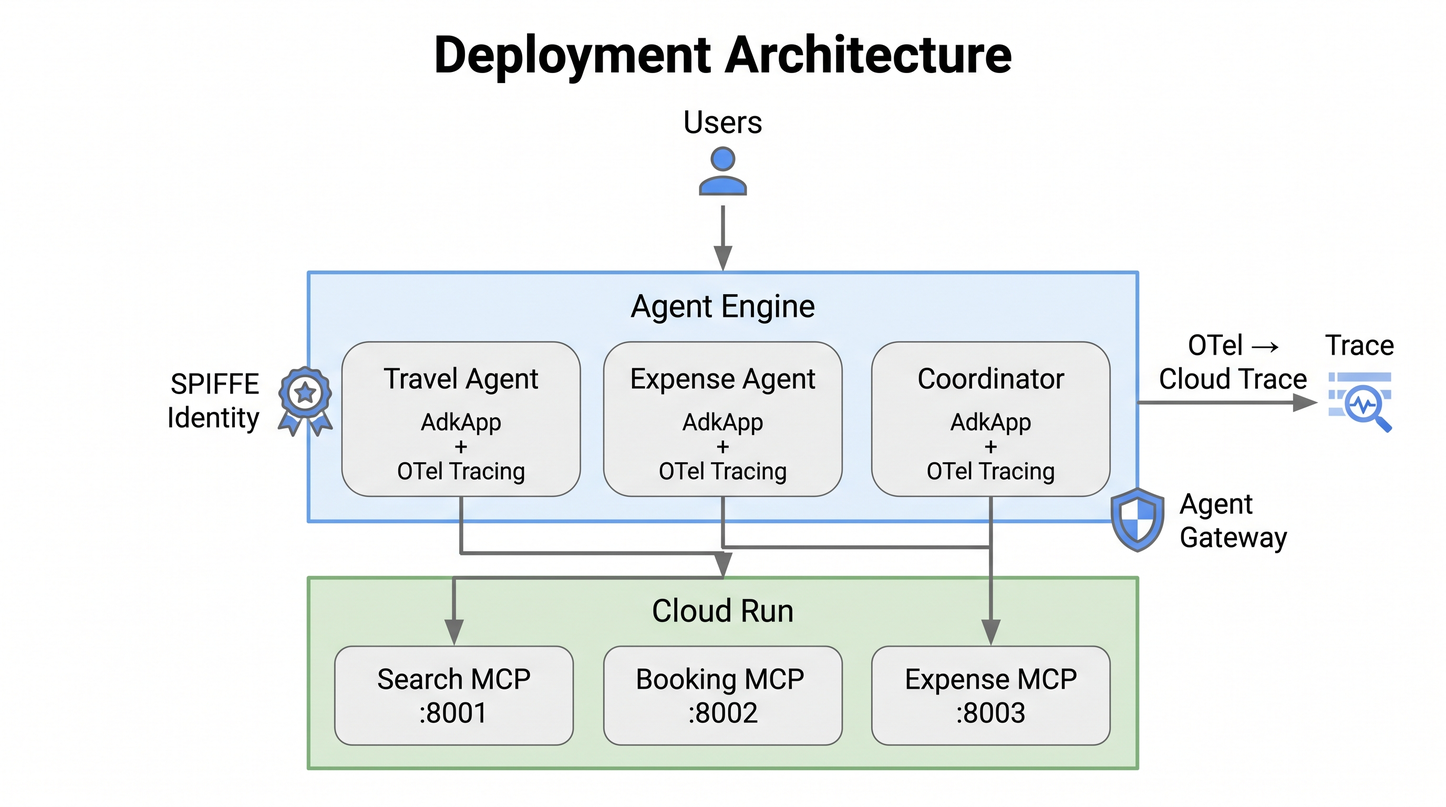
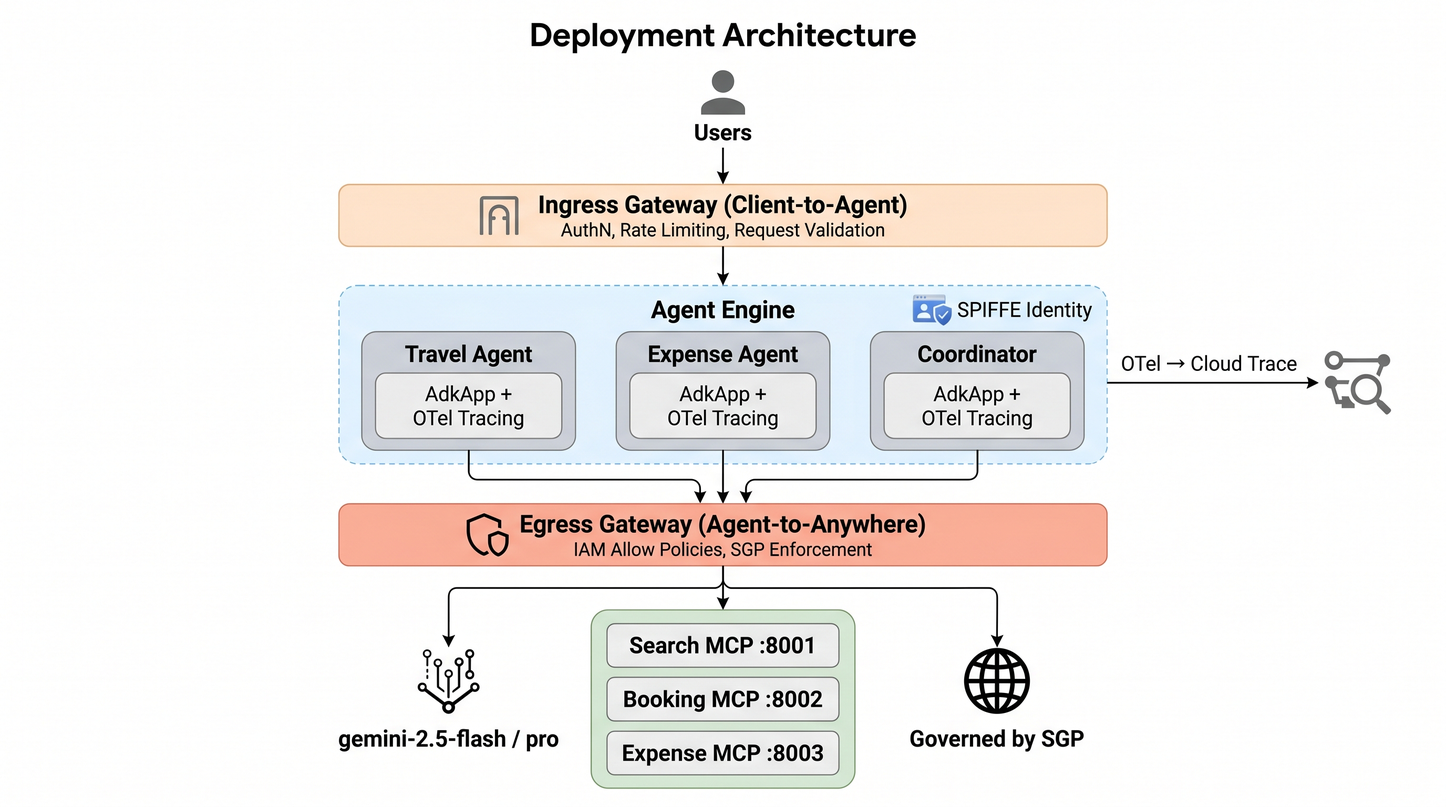
feat: add egress gateway, agent traces, and dual-gateway deployment
- Add Agent-to-Anywhere (egress) gateway to setup_agent_gateway.sh
- Update deploy_agents.py to pass agent_gateway_config with both
  ingress and egress gateway references when deploying agents
- Add AGENT_GATEWAY_EGRESS_PATH to config.py and deploy_all.sh
- Generate real agent traces and capture screenshots (session view,
  trace view, and detail)
- Regenerate Paper Banana diagrams (02, 04) showing dual-gateway
  architecture with SPIFFE identity and SGP enforcement
- Update workshop guide Section 2.1 with full ingress+egress docs
- Update slides with dual-mode gateway table and traces slide
- Update README screenshot table with new traces screenshots

Changed region(s): [[0.0938, 0.0312, 0.9688, 1.0]]

diff --git a/docs/slides.html b/docs/slides.html
@@ -535,28 +535,42 @@ travel_agent = LlmAgent(
   <div class="logo" style="color: rgba(255,255,255,0.4);">Google Cloud</div>
 </div>
 
-<!-- ===== SLIDE 14: AGENT GATEWAY ===== -->
+<!-- ===== SLIDE 14: AGENT GATEWAY (DUAL MODE) ===== -->
 <div class="slide" id="s14">
-  <h2>Agent Gateway</h2>
+  <h2>Agent Gateway &mdash; Dual Mode</h2>
   <div class="columns">
     <div>
-      <h3>Network-Level Governance</h3>
-      <ul>
-        <li>Controls <strong>ingress</strong> (client → agent) and <strong>egress</strong> (agent → tools)</li>
-        <li>Enforces identity verification at the boundary</li>
-        <li>Supports MCP protocol natively</li>
-        <li>Semantic Governance Policies for content-aware routing</li>
-      </ul>
-      <div class="highlight-box" style="margin-top: 20px; font-size: 18px;">
-        <strong>Mode:</strong> CLIENT_TO_AGENT<br>
-        <strong>Protocol:</strong> MCP<br>
-        <strong>Created via:</strong> REST API (networkservices.googleapis.com)
+      <h3>Ingress + Egress Governance</h3>
+      <table style="font-size: 16px; width: 100%; border-collapse: collapse;">
+        <tr style="border-bottom: 1px solid #ddd;"><th style="text-align: left; padding: 8px;">Mode</th><th style="text-align: left; padding: 8px;">Gateway</th><th style="text-align: left; padding: 8px;">Controls</th></tr>
+        <tr style="border-bottom: 1px solid #eee;"><td style="padding: 8px;"><strong>Client-to-Agent</strong></td><td style="padding: 8px;"><code>geap-workshop-gateway</code></td><td style="padding: 8px;">Inbound user requests</td></tr>
+        <tr><td style="padding: 8px;"><strong>Agent-to-Anywhere</strong></td><td style="padding: 8px;"><code>geap-workshop-gateway-egress</code></td><td style="padding: 8px;">Gemini model calls, MCP tools, external APIs</td></tr>
+      </table>
+      <div class="highlight-box" style="margin-top: 16px; font-size: 16px;">
+        <strong>Key:</strong> With egress gateway, ALL outbound traffic &mdash; including Gemini model calls &mdash; routes through governance (IAM Allow + SGP + Model Armor)
       </div>
+      <pre style="font-size: 13px; background: #f5f5f5; padding: 12px; border-radius: 8px; margin-top: 12px; overflow-x: auto;"><code>config = {
+  "agent_gateway_config": {
+    "client_to_agent_config": {"agent_gateway": INGRESS},
+    "agent_to_anywhere_config": {"agent_gateway": EGRESS},
+  },
+  "identity_type": "AGENT_IDENTITY",
+}</code></pre>
     </div>
     <div class="img-container">
       <img src="screenshots/session2_agent_gateway.png" alt="Agent Gateway Console">
     </div>
   </div>
+  <div class="logo">Google Cloud</div>
+</div>
+
+<!-- ===== SLIDE 14b: AGENT TRACES ===== -->
+<div class="slide dark" id="s14b">
+  <h2 style="color: var(--white);">Console: Agent Traces</h2>
+  <div class="img-container img-full">
+    <img src="screenshots/session2_agent_traces.png" alt="Agent Traces">
+  </div>
+  <p style="color: rgba(255,255,255,0.7); text-align: center; font-size: 18px;">Session view showing model calls, tool calls, token usage, and duration per trace</p>
   <div class="logo">Google Cloud</div>
 </div>
 

diff --git a/src/deploy/deploy_agents.py b/src/deploy/deploy_agents.py
@@ -12,6 +12,8 @@ from src.config import (
     SEARCH_MCP_URL,
     BOOKING_MCP_URL,
     EXPENSE_MCP_URL,
+    AGENT_GATEWAY_PATH,
+    AGENT_GATEWAY_EGRESS_PATH,
 )
 
 REQUIREMENTS = [
@@ -33,15 +35,31 @@ def deploy_agent(agent, display_name: str | None = None) -> str:
         "SEARCH_MCP_URL": SEARCH_MCP_URL,
         "BOOKING_MCP_URL": BOOKING_MCP_URL,
         "EXPENSE_MCP_URL": EXPENSE_MCP_URL,
+        "GOOGLE_API_PREVENT_AGENT_TOKEN_SHARING_FOR_GCP_SERVICES": "false",
     }
 
-    remote = agent_engines.create(
+    config = {}
+    gateway_config = {}
+    if AGENT_GATEWAY_PATH:
+        gateway_config["client_to_agent_config"] = {"agent_gateway": AGENT_GATEWAY_PATH}
+    if AGENT_GATEWAY_EGRESS_PATH:
+        gateway_config["agent_to_anywhere_config"] = {"agent_gateway": AGENT_GATEWAY_EGRESS_PATH}
+    if gateway_config:
+        config["agent_gateway_config"] = gateway_config
+        config["identity_type"] = "AGENT_IDENTITY"
+        print(f"  Gateway config: ingress={bool(AGENT_GATEWAY_PATH)}, egress={bool(AGENT_GATEWAY_EGRESS_PATH)}")
+
+    create_kwargs = dict(
         agent_engine=agent,
         requirements=REQUIREMENTS,
         display_name=display_name or agent.name,
         env_vars=env_vars,
         extra_packages=[os.path.join(SRC_DIR, "src")],
     )
+    if config:
+        create_kwargs["config"] = config
+
+    remote = agent_engines.create(**create_kwargs)
     print(f"✓ {agent.name} deployed: {remote.resource_name}")
     return remote.resource_name
 

diff --git a/src/config.py b/src/config.py
@@ -7,6 +7,7 @@ GCP_PROJECT_ID = os.environ.get("GCP_PROJECT_ID", "wortz-project-352116")
 GCP_REGION = os.environ.get("GCP_REGION", "us-central1")
 GCP_STAGING_BUCKET = os.environ.get("GCP_STAGING_BUCKET", f"{GCP_PROJECT_ID}-geap-staging")
 AGENT_GATEWAY_PATH = os.environ.get("AGENT_GATEWAY_PATH", "")
+AGENT_GATEWAY_EGRESS_PATH = os.environ.get("AGENT_GATEWAY_EGRESS_PATH", "")
 
 SEARCH_MCP_URL = os.environ.get("SEARCH_MCP_URL", "http://localhost:8001/mcp")
 BOOKING_MCP_URL = os.environ.get("BOOKING_MCP_URL", "http://localhost:8002/mcp")

diff --git a/docs/workshop_guide.md b/docs/workshop_guide.md
@@ -265,38 +265,69 @@ config = {"identity_type": types.IdentityType.AGENT_IDENTITY}
 
 ---
 
-### 2.1 Agent Gateway (~10 min)
+### 2.1 Agent Gateway (~15 min)
 
 **Script**: `scripts/setup_agent_gateway.sh`
 
-The Agent Gateway is the central networking and security component for all agentic interactions. It provides secure, governed connectivity for:
+The Agent Gateway is the central networking and security component for all agentic interactions. It operates in two modes:
 
-- **Client-to-Agent (ingress)**: Controls what external clients can call your agents
-- **Agent-to-Anywhere (egress)**: Controls what agents can communicate with (MCP servers, APIs, other agents)
+| Mode | Gateway Name | Purpose |
+|------|-------------|---------|
+| **Client-to-Agent (ingress)** | `geap-workshop-gateway` | Controls what external clients can call your agents |
+| **Agent-to-Anywhere (egress)** | `geap-workshop-gateway-egress` | Routes all outbound agent traffic (Gemini model calls, MCP tool calls, external APIs) through governance |
 
-The gateway is created via the Network Services REST API (v1alpha1):
+#### Creating Both Gateways
+
+The ingress gateway controls inbound access:
 
 ```bash
-# Create Agent Gateway via REST API
 curl -X POST \
   "https://networkservices.googleapis.com/v1alpha1/projects/${PROJECT_ID}/locations/${REGION}/agentGateways?agentGatewayId=geap-workshop-gateway" \
   -H "Authorization: Bearer $(gcloud auth print-access-token)" \
   -H "Content-Type: application/json" \
-  -d '{
-    "protocols": ["MCP"],
-    "googleManaged": {
-      "governedAccessPath": "CLIENT_TO_AGENT"
-    }
-  }'
+  -d '{"protocols": ["MCP"], "googleManaged": {"governedAccessPath": "CLIENT_TO_AGENT"}}'
 ```
 
-Or use the setup script:
+The egress gateway intercepts all outbound traffic — including Gemini model calls:
+
+```bash
+curl -X POST \
+  "https://networkservices.googleapis.com/v1alpha1/projects/${PROJECT_ID}/locations/${REGION}/agentGateways?agentGatewayId=geap-workshop-gateway-egress" \
+  -H "Authorization: Bearer $(gcloud auth print-access-token)" \
+  -H "Content-Type: application/json" \
+  -d '{"protocols": ["MCP"], "googleManaged": {"governedAccessPath": "AGENT_TO_ANYWHERE"}}'
+```
+
+Or use the setup script which creates both:
 
 ```bash
 bash scripts/setup_agent_gateway.sh
 ```
 
-**Console tour**: Navigate to Agent Platform -> Gateways in the console. Show the gateway resource, governed access path, and protocol configuration.
+#### Connecting Agents to Both Gateways
+
+When deploying to Agent Runtime, pass `agent_gateway_config` to route traffic through both gateways:
+
+```python
+remote = agent_engines.create(
+    agent_engine=agent,
+    config={
+        "agent_gateway_config": {
+            "client_to_agent_config": {
+                "agent_gateway": f"projects/{PROJECT_ID}/locations/{REGION}/agentGateways/geap-workshop-gateway"
+            },
+            "agent_to_anywhere_config": {
+                "agent_gateway": f"projects/{PROJECT_ID}/locations/{REGION}/agentGateways/geap-workshop-gateway-egress"
+            },
+        },
+        "identity_type": "AGENT_IDENTITY",
+    },
+)
+```
+
+**Key insight**: With egress gateway enabled, every Gemini model call, MCP tool invocation, and external API request flows through the gateway. This means IAM Allow Policies and SGP business rules apply to model traffic — not just tool calls.
+
+**Console tour**: Navigate to Agent Platform -> Gateways. Show both gateways, their governed access paths, and protocol configuration.
 
 **Screenshot**: `docs/screenshots/session2_agent_gateway.png`
 
@@ -306,16 +337,26 @@ bash scripts/setup_agent_gateway.sh
 
 Agent Gateway integrates with **Semantic Governance Policies (SGP)** — natural language rules that govern agent behavior at the platform level without embedding logic in agent code.
 
+**Script**: `scripts/setup_governance_policies.sh`
+
+Three governance layers enforced at the gateway:
+
+| Layer | Type | Enforcement | Example |
+|-------|------|-------------|---------|
+| **IAM Allow Policies** | Static egress control | CEL expressions on tool attributes | "Travel agent can only use non-destructive booking tools" |
+| **Semantic Governance (SGP)** | Runtime business rules | Natural language constraints | "Deny expenses over $200 for meals category" |
+| **Model Armor** | Content screening | Prompt/response templates | "Block prompt injection attempts" |
+
 Navigate to Agent Platform -> Policies -> Business Policies to:
 - Define constraints in plain English (e.g., "Only book economy class flights unless explicitly approved")
 - Scope policies to specific agents, MCP servers, or individual tools
 - Enforce compliance without redeploying agents
 
-> **Note**: SGP requires the policy engine to be provisioned (~15-20 min setup with VPC networking and DNS peering). See the [SGP documentation](https://docs.cloud.google.com/gemini-enterprise-agent-platform/govern/policies/configure-semantic-governance) for full setup.
+> **Note**: SGP requires the policy engine to be provisioned (~15-20 min setup with VPC networking and DNS peering). See `scripts/setup_governance_policies.sh` for full setup including VPC, DNS zone, and SGP engine provisioning.
 
-**Screenshot**: `docs/screenshots/session3_policies.png`
+**Screenshot**: `docs/screenshots/session3_business_policies.png`
 
-![Business Policies](screenshots/session3_policies.png)
+![Business Policies](screenshots/session3_business_policies.png)
 
 ---
 

diff --git a/README.md b/README.md
@@ -42,7 +42,9 @@ All screenshots are captured from real deployed GCP resources:
 | ![Agent Gateway](docs/screenshots/session1_architecture_overview.png) | Agent Gateway detail (geap-workshop-gateway) |
 | ![Cloud Run](docs/screenshots/session1_cloud_run_mcp_detail.png) | MCP server on Cloud Run |
 | ![Agent Engine](docs/screenshots/session1_agent_engine.png) | Multi-agent deployment |
-| ![Agent Gateway](docs/screenshots/session2_agent_gateway.png) | Agent Gateway (ingress/egress) |
+| ![Agent Gateway](docs/screenshots/session2_agent_gateway.png) | Agent Gateway (ingress + egress) |
+| ![Traces](docs/screenshots/session2_agent_traces.png) | Agent traces — session view with model calls and token usage |
+| ![Trace Spans](docs/screenshots/session2_agent_trace_spans.png) | Trace spans — individual trace view |
 | ![Model Armor](docs/screenshots/session4_model_armor.png) | Input/output screening |
 | ![Evaluation](docs/screenshots/session2_evaluation_pipeline.png) | Three-tier eval pipeline |
 | ![Agent Registry](docs/screenshots/session3_agent_registry_mcp.png) | MCP servers in Agent Registry |
